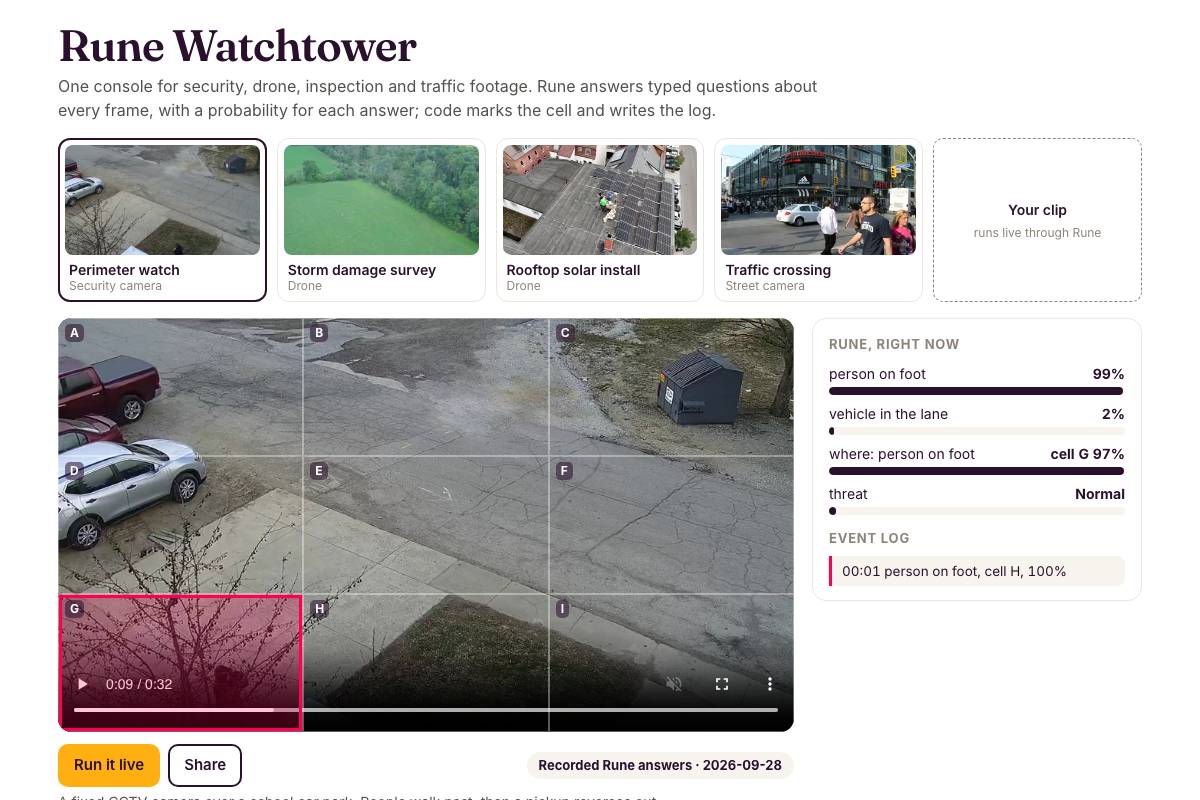
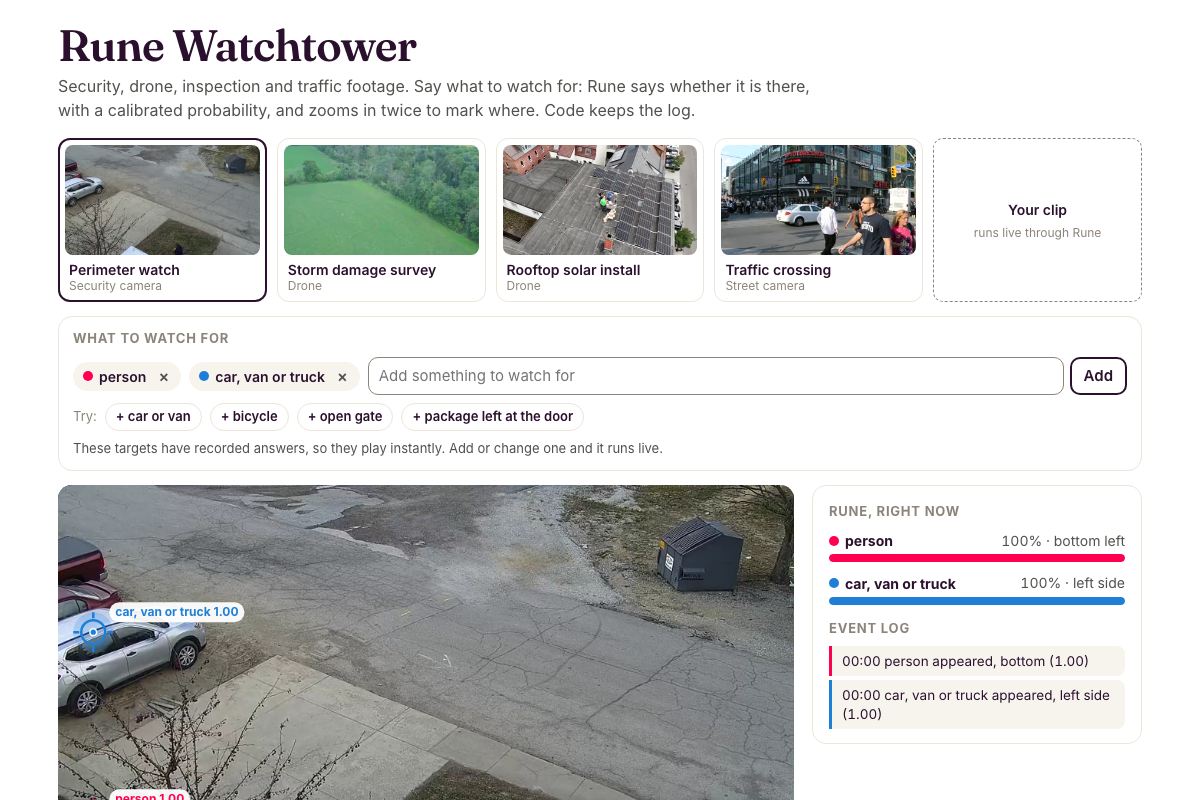
feat(labs): Runecaster joins under Entertainment; Watchtower picks your own targets
- Runecaster (hold a real object, cast its element) is third on the
  examples page, under Entertainment and Games, and opens in a new tab for
  the camera. The Entertainment chip appears with it.
- Rune Watchtower's copy and card show the rework: type what to watch
  for, precise markers from a zoom, and the event log.

diff --git a/lib/labs.js b/lib/labs.js
@@ -23,6 +23,7 @@ const LOCAL_PORTS = {
   'rune-watchtower': 7870,
   'so101-episode-judge': 7871,
   'rune-duck': 7872,
+  runecaster: 7874,
   'ask-your-camera': 7873,
 };
 
@@ -75,8 +76,8 @@ export const RUNE_DEMOS = [
     input: 'video',
     sectors: ['security', 'robotics'],
     icon: 'Cctv',
-    line: 'Security, drone and traffic footage, watched by Rune about once a second. A grid marks where things are, and code writes a timestamped event log: a person on foot in cell H, a vehicle in the lane, a crew near a roof edge. Replay recorded answers, run it live, or upload your own clip.',
-    proves: 'Video as a stream of typed decisions, with marking and an event log built in code.',
+    line: 'Security, drone and traffic footage, watched by Rune. Type what to watch for (a person, a car, a package at the door, a fallen tree) or pick a chip, and Rune finds each one, zooming in to mark it precisely. Code writes the event log: 00:12 car appeared, left side. Replay the recorded feeds, run them live, or upload your own clip.',
+    proves: 'Video as a stream of decisions: your own targets, marked by a zoom that finds the spot, not a box model.',
   }),
   demo({
     slug: 'so101-episode-judge',
@@ -86,6 +87,16 @@ export const RUNE_DEMOS = [
     icon: 'Bot',
     line: 'Real SO-101 robot-arm episodes from open LeRobot datasets. Rune watches every second: which phase the arm is in, whether it holds the object, whether a human hand reaches in. Then it says which episodes to keep and which to delete from the dataset, with the command to do it.',
     proves: 'Curating robot training data by looking, with no reward model to train.',
+  }),
+  demo({
+    slug: 'runecaster',
+    title: 'Runecaster',
+    input: 'video',
+    sectors: ['entertainment', 'games'],
+    icon: 'WandSparkles',
+    newTab: true,
+    line: 'Hold up a real object and cast a spell with your hand. Your browser tracks your hand at full speed; when you cast, Rune looks at what you are holding and picks its element: a mug casts water, something red casts fire, a plant casts vines. Its two top guesses mix into combos, and an unsure guess fizzles.',
+    proves: 'Fast tracking in the browser for motion, Rune for meaning: it knows what you are holding, with the odds on screen.',
   }),
   demo({
     slug: 'rune-duck',

diff --git a/components/labs/icons.js b/components/labs/icons.js
@@ -1,11 +1,11 @@
 import {
   AudioLines, Bird, Bot, Cctv, ChartLine, CircleCheck, ClipboardCheck, Gauge, House, Layers, MailWarning, MessageSquareWarning, Mic,
-  MousePointerClick, Pencil, Radio, ReceiptText, Route, Scale, Send, ShieldAlert, TextSearch, Volleyball, Webcam,
+  MousePointerClick, Pencil, Radio, ReceiptText, Route, Scale, Send, ShieldAlert, TextSearch, Volleyball, WandSparkles, Webcam,
 } from 'lucide-react';
 
 /* Icons are named in lib/labs.js as strings so the data stays plain and
    testable under node; this is the only place they become components. */
 export const ICONS = {
   AudioLines, Bird, Bot, Cctv, ChartLine, CircleCheck, ClipboardCheck, Gauge, House, Layers, MailWarning, MessageSquareWarning, Mic,
-  MousePointerClick, Pencil, Radio, ReceiptText, Route, Scale, Send, ShieldAlert, TextSearch, Volleyball, Webcam,
+  MousePointerClick, Pencil, Radio, ReceiptText, Route, Scale, Send, ShieldAlert, TextSearch, Volleyball, WandSparkles, Webcam,
 };
